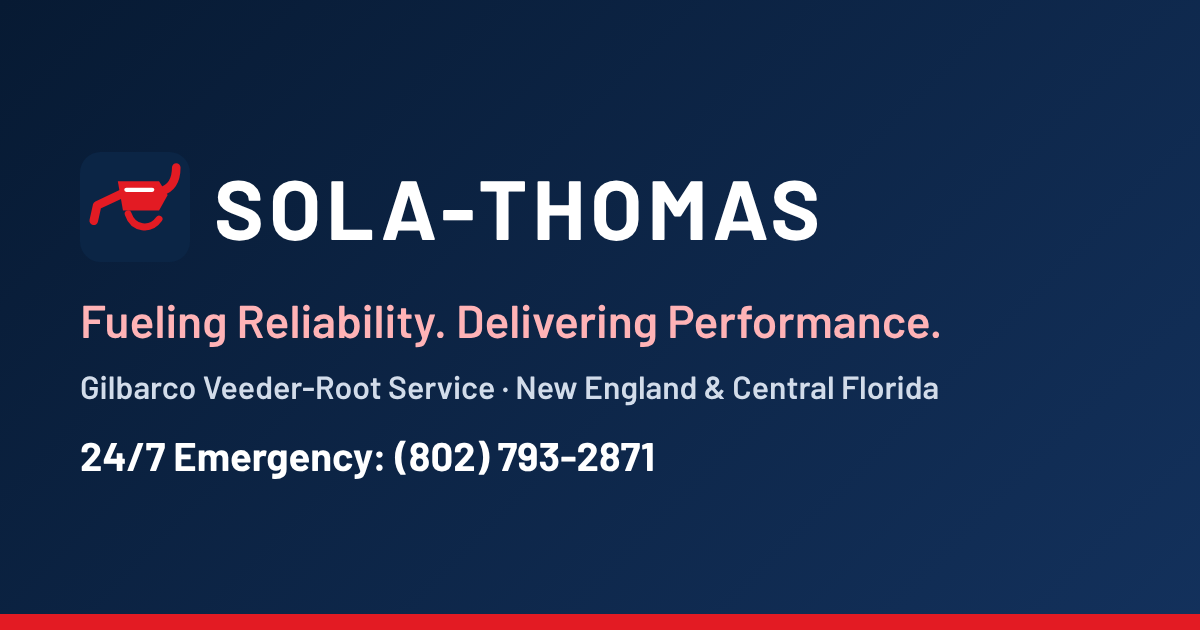
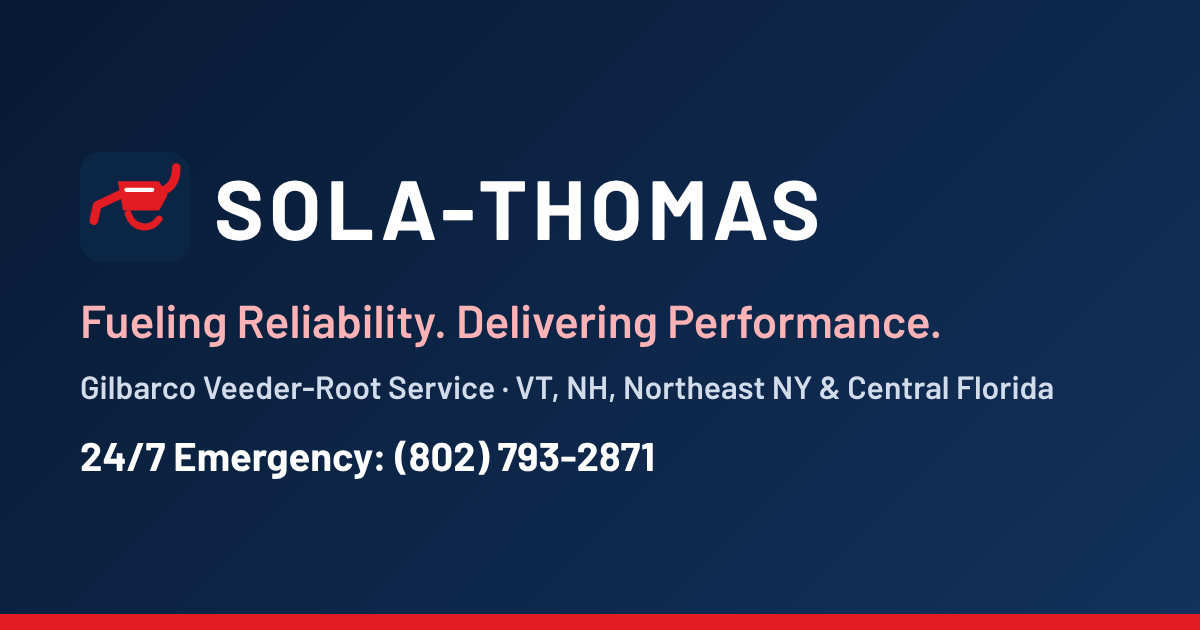
Narrow northern service area to VT, NH, and Northeast New York
Until more technicians are hired, coverage is Vermont, New Hampshire,
Northeast New York, and Central Florida. Updated homepage copy and
coverage section, titles and descriptions, JSON-LD areaServed, form
state options (NH/NY/VT/FL/Other) with a call-to-confirm hint, OG image,
footers, contract doc, and the standards rules.

Claude-Session: https://claude.ai/code/session_01NVjhdtCDA2WkZoHKHeUEnb

Changed region(s): [[0.4317, 0.573, 0.8942, 0.6333]]

diff --git a/static_site/index.html b/static_site/index.html
@@ -5,8 +5,8 @@
     <meta name="viewport" content="width=device-width, initial-scale=1.0, viewport-fit=cover">
     <meta http-equiv="Content-Security-Policy" content="default-src 'none'; script-src 'self' 'unsafe-inline' https://www.googletagmanager.com; style-src 'self' 'unsafe-inline'; font-src 'self'; img-src 'self' data: https://*.google-analytics.com https://*.googletagmanager.com; connect-src 'self' https://formspree.io https://*.google-analytics.com https://*.analytics.google.com https://*.googletagmanager.com; form-action 'self' https://formspree.io; base-uri 'self'; object-src 'none'">
     <meta name="referrer" content="strict-origin-when-cross-origin">
-    <title>Sola-Thomas | Gilbarco Service, New England &amp; Central Florida</title>
-    <meta name="description" content="Gilbarco Veeder-Root Authorized Service Contractor. Fuel dispenser repair, preventative maintenance, Passport POS, and Veeder-Root tank monitoring across New England and Central Florida. 24/7 emergency service: (802) 793-2871.">
+    <title>Sola-Thomas | Gilbarco Service, VT, NH, NE New York &amp; Central FL</title>
+    <meta name="description" content="Gilbarco Veeder-Root Authorized Service Contractor. Fuel dispenser repair, preventative maintenance, Passport POS, and Veeder-Root tank monitoring in Vermont, New Hampshire, Northeast New York, and Central Florida. 24/7 emergency service: (802) 793-2871.">
     <link rel="canonical" href="https://solathomas.com/">
     <meta name="theme-color" content="#0b2545">
     <link rel="icon" href="favicon.svg" type="image/svg+xml">
@@ -14,12 +14,12 @@
     <meta property="og:type" content="website">
     <meta property="og:site_name" content="Sola-Thomas">
     <meta property="og:title" content="Sola-Thomas | Gilbarco Veeder-Root Service">
-    <meta property="og:description" content="Fueling Reliability. Delivering Performance. Gilbarco Veeder-Root service across New England and Central Florida, with 24/7 emergency availability.">
+    <meta property="og:description" content="Fueling Reliability. Delivering Performance. Gilbarco Veeder-Root service in Vermont, New Hampshire, Northeast New York, and Central Florida, with 24/7 emergency availability.">
     <meta property="og:url" content="https://solathomas.com/">
     <meta property="og:image" content="https://solathomas.com/images/og-image.png">
     <meta property="og:image:width" content="1200">
     <meta property="og:image:height" content="630">
-    <meta property="og:image:alt" content="Sola-Thomas. Fueling Reliability. Delivering Performance. Gilbarco Veeder-Root service in New England and Central Florida.">
+    <meta property="og:image:alt" content="Sola-Thomas. Fueling Reliability. Delivering Performance. Gilbarco Veeder-Root service in Vermont, New Hampshire, Northeast New York, and Central Florida.">
     <meta name="twitter:card" content="summary_large_image">
 
     <link rel="preload" href="fonts/barlow-700-latin.woff2" as="font" type="font/woff2" crossorigin>
@@ -40,12 +40,9 @@
         "telephone": "+1-802-793-2871",
         "email": "service@solathomas.com",
         "areaServed": [
-            {"@type": "State", "name": "Connecticut"},
-            {"@type": "State", "name": "Maine"},
-            {"@type": "State", "name": "Massachusetts"},
-            {"@type": "State", "name": "New Hampshire"},
-            {"@type": "State", "name": "Rhode Island"},
             {"@type": "State", "name": "Vermont"},
+            {"@type": "State", "name": "New Hampshire"},
+            {"@type": "AdministrativeArea", "name": "Northeast New York"},
             {"@type": "AdministrativeArea", "name": "Central Florida"}
         ],
         "hasOfferCatalog": {
@@ -105,7 +102,7 @@
                 <div>
                     <p class="slogan">Fueling Reliability. Delivering Performance.</p>
                     <h1>Gilbarco Veeder-Root Service for Commercial Fueling Sites</h1>
-                    <p class="lead">Dispenser diagnostics and repair, preventative maintenance, Passport POS, and Veeder-Root tank monitoring for gas stations, convenience stores, and fleet fueling sites across New England and Central Florida.</p>
+                    <p class="lead">Dispenser diagnostics and repair, preventative maintenance, Passport POS, and Veeder-Root tank monitoring for gas stations, convenience stores, and fleet fueling sites in Vermont, New Hampshire, Northeast New York, and Central Florida.</p>
                     <div class="hero-actions">
                         <a class="btn btn-red" href="tel:+18027932871" data-cta="hero">
                             <svg aria-hidden="true"><use href="images/icons.svg#i-phone"></use></svg>Call Now
@@ -214,18 +211,16 @@
             <div class="container">
                 <div class="section-head">
                     <span class="eyebrow">Service Coverage</span>
-                    <h2>New England and Central Florida</h2>
+                    <h2>Northern New England, Northeast New York, and Central Florida</h2>
                     <p class="lead-soft">Commercial fueling sites in our two service regions. Call to confirm coverage for your location.</p>
                 </div>
                 <div class="regions">
                     <div class="region">
-                        <h3>New England</h3>
-                        <p class="states">Connecticut · Maine · Massachusetts · New Hampshire · Rhode Island · Vermont</p>
-                        <p>Gas stations, convenience stores, and fleet fueling sites throughout the region.</p>
+                        <h3>Vermont, New Hampshire &amp; Northeast New York</h3>
+                        <p>Gas stations, convenience stores, and fleet fueling sites in Vermont, New Hampshire, and northeastern New York.</p>
                     </div>
                     <div class="region">
                         <h3>Central Florida</h3>
-                        <p class="states">Central Florida</p>
                         <p>Gas stations, convenience stores, and fleet fueling sites across Central Florida.</p>
                     </div>
                 </div>
@@ -280,7 +275,7 @@
                         <span class="brand-name">SOLA-THOMAS</span>
                     </a>
                     <p class="footer-slogan">Fueling Reliability. Delivering Performance.</p>
-                    <p>Gilbarco Veeder-Root Authorized Service Contractor serving New England and Central Florida.</p>
+                    <p>Gilbarco Veeder-Root Authorized Service Contractor serving Vermont, New Hampshire, Northeast New York, and Central Florida.</p>
                 </div>
                 <div>
                     <h2 class="footer-title">Contact</h2>

diff --git a/static_site/service-request.html b/static_site/service-request.html
@@ -6,7 +6,7 @@
     <meta http-equiv="Content-Security-Policy" content="default-src 'none'; script-src 'self' 'unsafe-inline' https://www.googletagmanager.com; style-src 'self' 'unsafe-inline'; font-src 'self'; img-src 'self' data: https://*.google-analytics.com https://*.googletagmanager.com; connect-src 'self' https://formspree.io https://*.google-analytics.com https://*.analytics.google.com https://*.googletagmanager.com; form-action 'self' https://formspree.io; base-uri 'self'; object-src 'none'">
     <meta name="referrer" content="strict-origin-when-cross-origin">
     <title>Request Service | Sola-Thomas</title>
-    <meta name="description" content="Request Gilbarco Veeder-Root service from Sola-Thomas for dispensers, Passport POS, and Veeder-Root tank monitoring in New England and Central Florida. Emergencies: call (802) 793-2871.">
+    <meta name="description" content="Request Gilbarco Veeder-Root service from Sola-Thomas for dispensers, Passport POS, and Veeder-Root tank monitoring in Vermont, New Hampshire, Northeast New York, and Central Florida. Emergencies: call (802) 793-2871.">
     <link rel="canonical" href="https://solathomas.com/service-request.html">
     <meta name="theme-color" content="#0b2545">
     <link rel="icon" href="favicon.svg" type="image/svg+xml">
@@ -19,7 +19,7 @@
     <meta property="og:image" content="https://solathomas.com/images/og-image.png">
     <meta property="og:image:width" content="1200">
     <meta property="og:image:height" content="630">
-    <meta property="og:image:alt" content="Sola-Thomas. Fueling Reliability. Delivering Performance. Gilbarco Veeder-Root service in New England and Central Florida.">
+    <meta property="og:image:alt" content="Sola-Thomas. Fueling Reliability. Delivering Performance. Gilbarco Veeder-Root service in Vermont, New Hampshire, Northeast New York, and Central Florida.">
     <meta name="twitter:card" content="summary_large_image">
 
     <link rel="preload" href="fonts/barlow-700-latin.woff2" as="font" type="font/woff2" crossorigin>
@@ -129,12 +129,9 @@
                                     <label for="site_state">State <span class="req" aria-hidden="true">*</span></label>
                                     <select id="site_state" name="site_state" autocomplete="address-level1" aria-describedby="state-hint" required>
                                         <option value="">Select</option>
-                                        <optgroup label="New England">
-                                            <option value="CT">CT</option>
-                                            <option value="MA">MA</option>
-                                            <option value="ME">ME</option>
+                                        <optgroup label="Northeast">
                                             <option value="NH">NH</option>
-                                            <option value="RI">RI</option>
+                                            <option value="NY">NY</option>
                                             <option value="VT">VT</option>
                                         </optgroup>
                                         <optgroup label="Florida">
@@ -150,7 +147,7 @@
                                     <div class="error" id="site_zip-error">Enter a 5-digit ZIP.</div>
                                 </div>
                             </div>
-                            <p class="hint hint-row" id="state-hint">Outside New England or Central Florida? Call to confirm availability.</p>
+                            <p class="hint hint-row" id="state-hint">Outside Vermont, New Hampshire, northeastern New York, or Central Florida? Choose Other and call to confirm availability.</p>
                         </fieldset>
 
                         <fieldset>
@@ -288,7 +285,7 @@
                         <span class="brand-name">SOLA-THOMAS</span>
                     </a>
                     <p class="footer-slogan">Fueling Reliability. Delivering Performance.</p>
-                    <p>Gilbarco Veeder-Root Authorized Service Contractor serving New England and Central Florida.</p>
+                    <p>Gilbarco Veeder-Root Authorized Service Contractor serving Vermont, New Hampshire, Northeast New York, and Central Florida.</p>
                 </div>
                 <div>
                     <h2 class="footer-title">Contact</h2>

diff --git a/static_site/privacy.html b/static_site/privacy.html
@@ -19,7 +19,7 @@
     <meta property="og:image" content="https://solathomas.com/images/og-image.png">
     <meta property="og:image:width" content="1200">
     <meta property="og:image:height" content="630">
-    <meta property="og:image:alt" content="Sola-Thomas. Fueling Reliability. Delivering Performance. Gilbarco Veeder-Root service in New England and Central Florida.">
+    <meta property="og:image:alt" content="Sola-Thomas. Fueling Reliability. Delivering Performance. Gilbarco Veeder-Root service in Vermont, New Hampshire, Northeast New York, and Central Florida.">
     <meta name="twitter:card" content="summary_large_image">
 
     <link rel="preload" href="fonts/barlow-700-latin.woff2" as="font" type="font/woff2" crossorigin>
@@ -112,7 +112,7 @@
                         <span class="brand-name">SOLA-THOMAS</span>
                     </a>
                     <p class="footer-slogan">Fueling Reliability. Delivering Performance.</p>
-                    <p>Gilbarco Veeder-Root Authorized Service Contractor serving New England and Central Florida.</p>
+                    <p>Gilbarco Veeder-Root Authorized Service Contractor serving Vermont, New Hampshire, Northeast New York, and Central Florida.</p>
                 </div>
                 <div>
                     <h2 class="footer-title">Contact</h2>

diff --git a/static_site/404.html b/static_site/404.html
@@ -96,7 +96,7 @@
                         <span class="brand-name">SOLA-THOMAS</span>
                     </a>
                     <p class="footer-slogan">Fueling Reliability. Delivering Performance.</p>
-                    <p>Gilbarco Veeder-Root Authorized Service Contractor serving New England and Central Florida.</p>
+                    <p>Gilbarco Veeder-Root Authorized Service Contractor serving Vermont, New Hampshire, Northeast New York, and Central Florida.</p>
                 </div>
                 <div>
                     <h2 class="footer-title">Contact</h2>

diff --git a/.claude/rules/website-standards.md b/.claude/rules/website-standards.md
@@ -18,7 +18,9 @@ gets added here with its source before it ships.
   technician, never to the company's age.
 - Services: dispenser diagnostics and repairs, preventative maintenance, installations and upgrades,
   emergency repairs, Passport POS, Veeder-Root tank monitoring, supported equipment.
-- 24/7 emergency availability. Coverage: New England and Central Florida only.
+- 24/7 emergency availability. Coverage (from Nov 2, 2026, until more technicians are hired):
+  Vermont, New Hampshire, Northeast New York, and Central Florida. Do not list CT, MA, ME, or RI
+  as served areas. Requests from elsewhere are accepted as "Other" with a call-to-confirm note.
 - Phone (802) 793-2871 (service and emergencies). Email service@solathomas.com (monitored, confirmed by Ernesto, Nov 2, 2026).
 - Gilbarco certified; use of the Gilbarco Veeder-Root logo is permitted (confirmed by Ernesto, Nov 2, 2026).
   Wording containing "certified" still needs the exact phrase added to `APPROVED_CLAIM_PHRASES` in

diff --git a/docs/service-request-contract.md b/docs/service-request-contract.md
@@ -17,7 +17,7 @@ swapped without touching the page.
 | `site_name` | no | station or site name |
 | `site_address` | yes | street address |
 | `site_city` | yes | |
-| `site_state` | yes | `CT` `MA` `ME` `NH` `RI` `VT` `FL` `Other` |
+| `site_state` | yes | `NH` `NY` `VT` `FL` `Other` (until Nov 2026 the form also offered `CT` `MA` `ME` `RI`; intake should accept any US state code) |
 | `site_zip` | no | `12345` or `12345-6789` |
 | `equipment_type` | no | `Fuel dispenser`, `Passport POS`, `Payment terminal`, `Veeder-Root tank monitoring`, `Fleet management system`, `Other / not sure` |
 | `equipment_model` | no | |

diff --git a/CLAUDE.md b/CLAUDE.md
@@ -1,7 +1,7 @@
 # Sola-Thomas Website
 
 Public site for Sola-Thomas LLC, a Gilbarco Veeder-Root Authorized Service Contractor serving
-New England and Central Florida. Plain static HTML/CSS/JS in `static_site/`, deployed to GitHub
+Vermont, New Hampshire, Northeast New York, and Central Florida. Plain static HTML/CSS/JS in `static_site/`, deployed to GitHub
 Pages on every push to `main` (live at solathomas.com).
 
 @.claude/rules/website-standards.md

diff --git a/static_site/README.md b/static_site/README.md
@@ -1,7 +1,7 @@
 # solathomas.com (static site)
 
 Public website for Sola-Thomas, a Gilbarco Veeder-Root Authorized Service Contractor
-serving New England and Central Florida. Deployed to GitHub Pages from this folder on
+serving Vermont, New Hampshire, Northeast New York, and Central Florida. Deployed to GitHub Pages from this folder on
 every push to `main` (`.github/workflows/deploy-static-site.yml`).
 
 ## Pages
